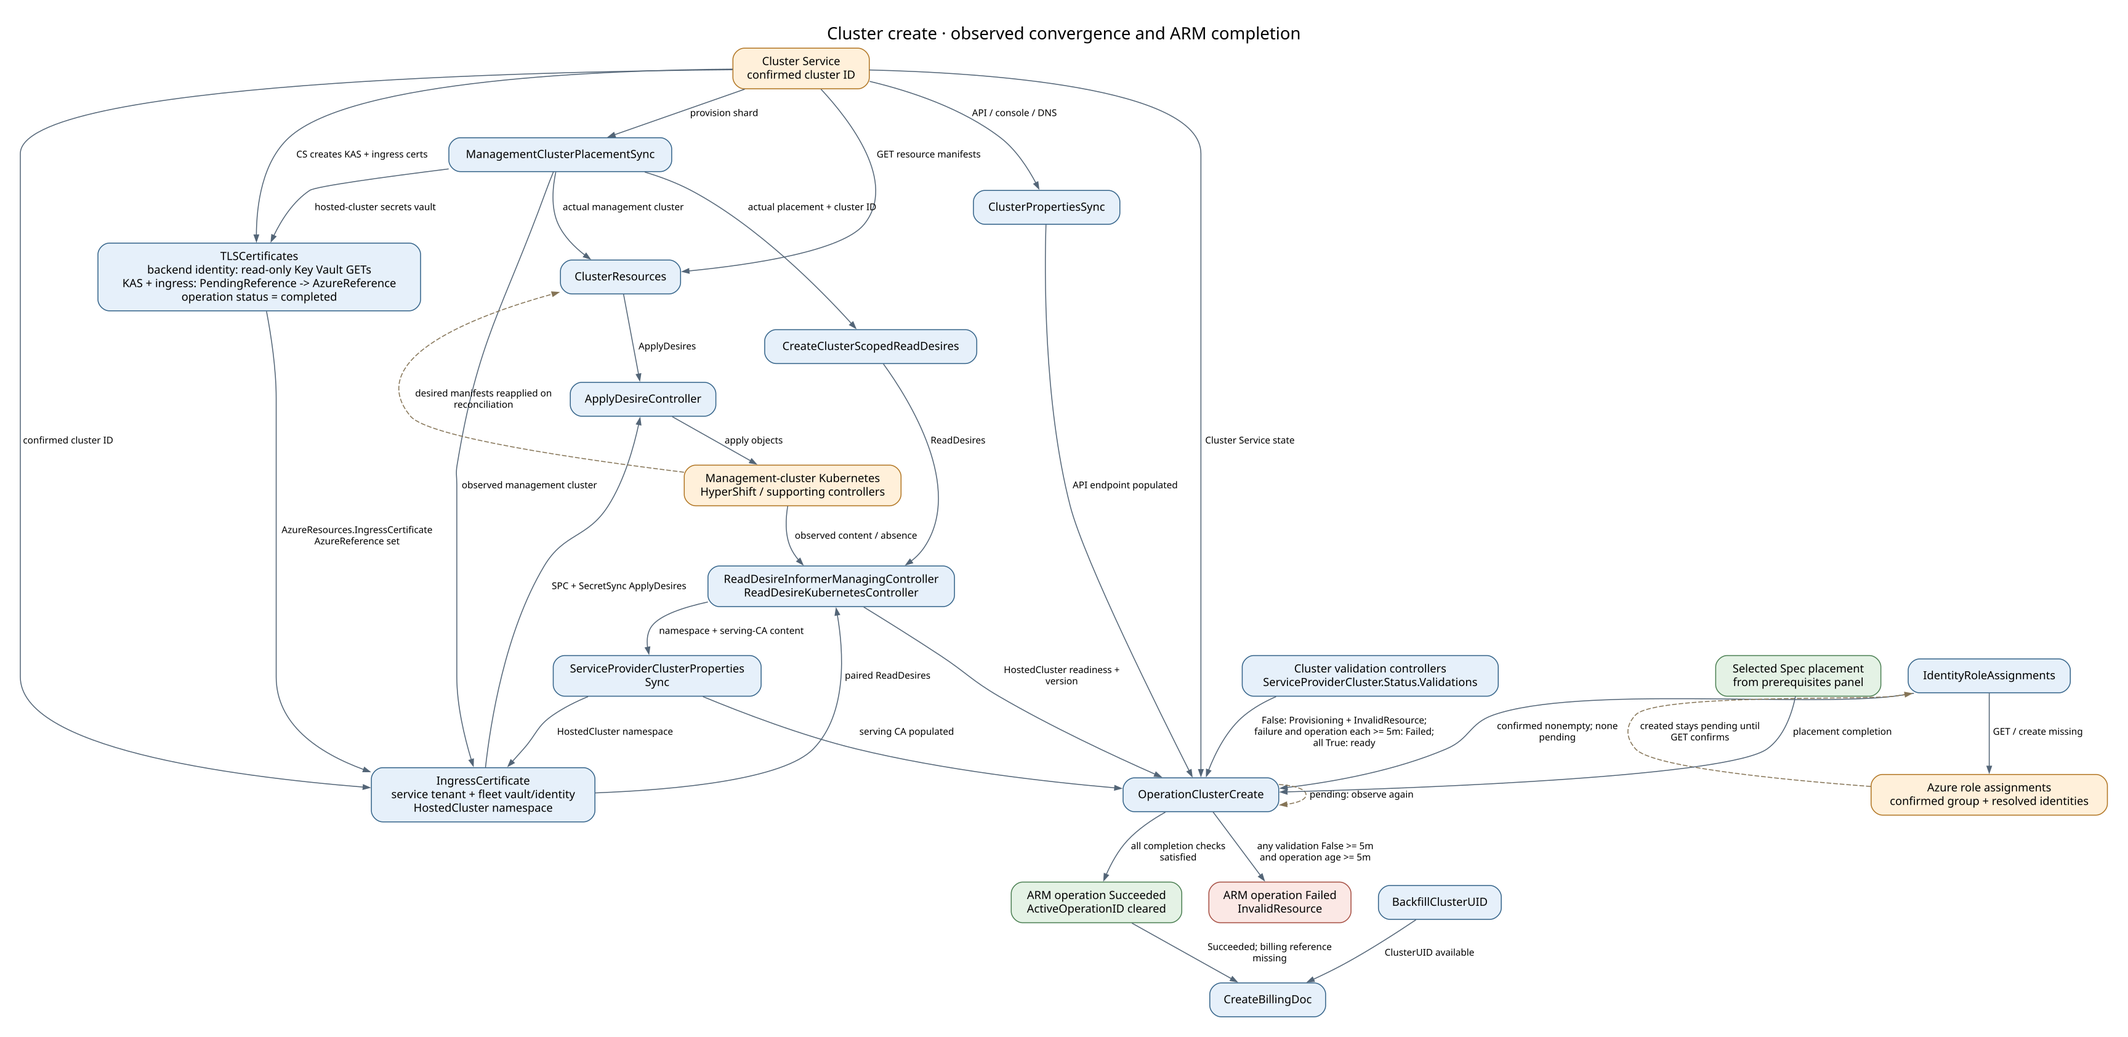
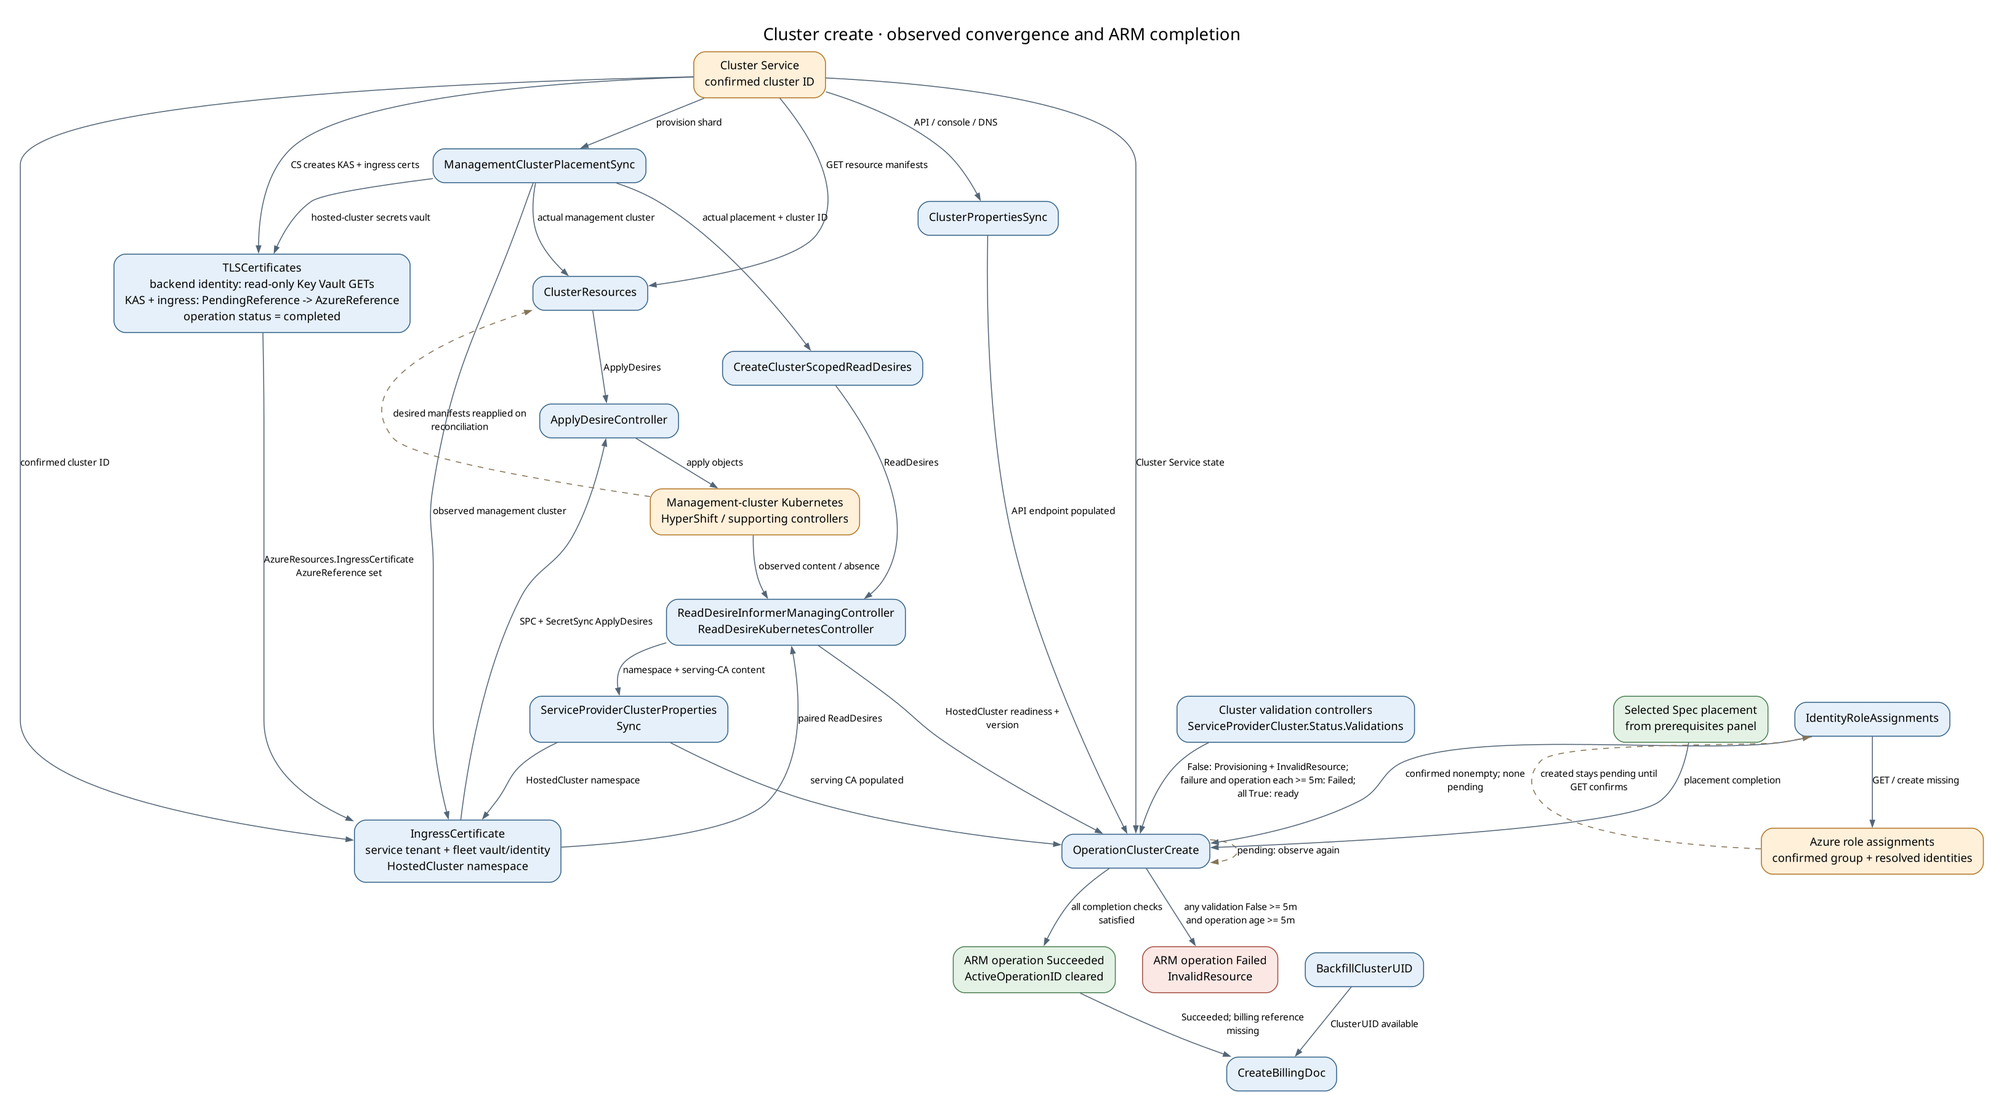
fix(backend): address ingress certificate review feedback
Rename the Kubernetes resource delivery package to k8sresources. Make pending and observed TLS certificate references optional pointers, update consumers and tests, and regenerate deepcopy code and module metadata.

Regenerate the cluster convergence and deletion PNGs with native Graphviz. Retain the shared 30-second observation context: Azure Retry.TryTimeout is per HTTP attempt, not a deadline spanning both certificate reads.

diff --git a/backend/pkg/controllers/cluster/registration.go b/backend/pkg/controllers/cluster/registration.go
@@ -31,12 +31,12 @@ import (
 	clusterdeletion "github.com/Azure/ARO-HCP/backend/pkg/controllers/cluster/deletion"
 	"github.com/Azure/ARO-HCP/backend/pkg/controllers/cluster/denyassignments"
 	clusteridentity "github.com/Azure/ARO-HCP/backend/pkg/controllers/cluster/identity"
+	clusterk8sresources "github.com/Azure/ARO-HCP/backend/pkg/controllers/cluster/k8sresources"
 	"github.com/Azure/ARO-HCP/backend/pkg/controllers/cluster/legacycredentialrequest"
 	clusteroperations "github.com/Azure/ARO-HCP/backend/pkg/controllers/cluster/operations"
 	clusterplacement "github.com/Azure/ARO-HCP/backend/pkg/controllers/cluster/placement"
 	clusterproperties "github.com/Azure/ARO-HCP/backend/pkg/controllers/cluster/properties"
 	clusterreaddesires "github.com/Azure/ARO-HCP/backend/pkg/controllers/cluster/readdesires"
-	clusterresources "github.com/Azure/ARO-HCP/backend/pkg/controllers/cluster/resources"
 	clusterroleassignments "github.com/Azure/ARO-HCP/backend/pkg/controllers/cluster/roleassignments"
 	clusterstatus "github.com/Azure/ARO-HCP/backend/pkg/controllers/cluster/status"
 	clusterupdate "github.com/Azure/ARO-HCP/backend/pkg/controllers/cluster/update"
@@ -965,7 +965,7 @@ func instantiateTLSCertificatesController(controllerContext controllerconfig.Con
 
 func instantiateIngressCertificateController(controllerContext controllerconfig.ControllerContext) (controllerconfig.Runnable, error) {
 	_, managementClusterLister := controllerContext.FleetInformers.ManagementClusters()
-	return clusterresources.NewIngressCertificateController(
+	return clusterk8sresources.NewIngressCertificateController(
 		controllerContext.ResourcesDBClient,
 		controllerContext.KubeApplierDBClients,
 		controllerContext.BackendInformers,
@@ -1238,7 +1238,7 @@ func Register(registry map[string]controllerconfig.ControllerRegistration) {
 	registry[strings.ToLower(clusterplacement.PlacementControllerName)] = registerPlacementController()
 	registry[strings.ToLower(clusterplacement.PendingCleanupControllerName)] = registerPendingCleanupController()
 	registry[strings.ToLower(clusterbackups.BackupScheduleControllerName)] = registerBackupScheduleController()
-	registry[strings.ToLower(clusterresources.IngressCertificateControllerName)] = registerIngressCertificateController()
+	registry[strings.ToLower(clusterk8sresources.IngressCertificateControllerName)] = registerIngressCertificateController()
 	registry[strings.ToLower(clusterazureresources.TLSCertificatesControllerName)] = registerTLSCertificatesController()
 	registry[strings.ToLower(clusteridentity.FetchMSIIdentitiesInfoControllerName)] = registerFetchMSIIdentitiesInfoController()
 	registry[strings.ToLower(clusteridentity.FetchDataPlaneOperatorsManagedIdentitiesInfoControllerName)] = registerFetchDataPlaneOperatorsManagedIdentitiesInfoController()

diff --git a/backend/pkg/controllers/cluster/azureresources/tls_certificates_controller.go b/backend/pkg/controllers/cluster/azureresources/tls_certificates_controller.go
@@ -109,7 +109,7 @@ func (syncer *tlsCertificatesSyncer) NeedsWork(cluster *coreapi.Cluster, service
 		return serviceProviderCluster.Status.AzureResources.KubeAPIServerCertificate != nil || serviceProviderCluster.Status.AzureResources.IngressCertificate != nil
 	}
 	return cluster.ServiceProviderProperties.ClusterServiceID != nil &&
-		(serviceProviderCluster.Status.AzureResources.KubeAPIServerCertificate == nil || serviceProviderCluster.Status.AzureResources.KubeAPIServerCertificate.AzureReference == (coreapi.AzureTLSCertificateReference{}) || serviceProviderCluster.Status.AzureResources.IngressCertificate == nil || serviceProviderCluster.Status.AzureResources.IngressCertificate.AzureReference == (coreapi.AzureTLSCertificateReference{}))
+		(serviceProviderCluster.Status.AzureResources.KubeAPIServerCertificate == nil || serviceProviderCluster.Status.AzureResources.KubeAPIServerCertificate.AzureReference == nil || serviceProviderCluster.Status.AzureResources.IngressCertificate == nil || serviceProviderCluster.Status.AzureResources.IngressCertificate.AzureReference == nil)
 }
 
 func (syncer *tlsCertificatesSyncer) SyncOnce(ctx context.Context, key controllerutils.HCPClusterKey) error {
@@ -172,8 +172,8 @@ func (syncer *tlsCertificatesSyncer) SyncOnce(ctx context.Context, key controlle
 		{"ingress-tls-cert-" + clusterServiceID, replacement.Status.AzureResources.IngressCertificate},
 	}
 	for _, certificate := range certificates {
-		if certificate.state.AzureReference == (coreapi.AzureTLSCertificateReference{}) {
-			certificate.state.PendingReference = coreapi.AzureTLSCertificateReference{KeyVaultURL: vaultURL, CertificateName: certificate.name}
+		if certificate.state.AzureReference == nil {
+			certificate.state.PendingReference = &coreapi.AzureTLSCertificateReference{KeyVaultURL: vaultURL, CertificateName: certificate.name}
 		}
 	}
 	if controllerutil.NeedsUpdate(existing, replacement) {
@@ -181,7 +181,7 @@ func (syncer *tlsCertificatesSyncer) SyncOnce(ctx context.Context, key controlle
 	}
 	var observationErrors []error
 	for _, certificate := range certificates {
-		if certificate.state.AzureReference != (coreapi.AzureTLSCertificateReference{}) {
+		if certificate.state.AzureReference != nil {
 			continue
 		}
 		reference := certificate.state.PendingReference
@@ -192,7 +192,7 @@ func (syncer *tlsCertificatesSyncer) SyncOnce(ctx context.Context, key controlle
 		}
 		if ready {
 			certificate.state.AzureReference = reference
-			certificate.state.PendingReference = coreapi.AzureTLSCertificateReference{}
+			certificate.state.PendingReference = nil
 		}
 	}
 	return errors.Join(append(observationErrors, syncer.persist(ctx, key, existing, replacement))...)

diff --git a/backend/pkg/controllers/cluster/operations/operation_cluster_create_test.go b/backend/pkg/controllers/cluster/operations/operation_cluster_create_test.go
@@ -1202,13 +1202,13 @@ func TestDetermineOperationState(t *testing.T) {
 				} {
 					reference := certificate.AzureReference
 					certificate.PendingReference = reference
-					certificate.AzureReference = coreapi.AzureTLSCertificateReference{}
+					certificate.AzureReference = nil
 					waiting, waitErr := controller.determineOperationState(ctx, operation, clusterArg)
 					require.NoError(t, waitErr)
 					assert.Equal(t, coreapi.ProvisioningStateProvisioning, waiting.ProvisioningState)
 					assert.Contains(t, waiting.Message, "TLS certificates not yet confirmed")
 					certificate.AzureReference = reference
-					certificate.PendingReference = coreapi.AzureTLSCertificateReference{}
+					certificate.PendingReference = nil
 				}
 			}
 
@@ -1292,7 +1292,7 @@ func TestServingCABundleOperationStatus(t *testing.T) {
 }
 
 func confirmedTLSCertificate(name string) *coreapi.TLSCertificate {
-	return &coreapi.TLSCertificate{AzureReference: coreapi.AzureTLSCertificateReference{
+	return &coreapi.TLSCertificate{AzureReference: &coreapi.AzureTLSCertificateReference{
 		KeyVaultURL:     metadataapi.Must(url.Parse("https://certificates.vault.azure.net/")),
 		CertificateName: name,
 	}}
@@ -1318,9 +1318,9 @@ func TestTLSCertificatesOperationStatus(test *testing.T) {
 		{name: "ingress pending", kas: confirmedTLSCertificate("kas"), ingress: pending},
 		{name: "KAS still pending", kas: confirmedAndPending, ingress: confirmedTLSCertificate("ingress")},
 		{name: "ingress still pending", kas: confirmedTLSCertificate("kas"), ingress: confirmedAndPending},
-		{name: "missing vault", kas: &coreapi.TLSCertificate{AzureReference: coreapi.AzureTLSCertificateReference{CertificateName: "kas"}}, ingress: confirmedTLSCertificate("ingress")},
+		{name: "missing vault", kas: &coreapi.TLSCertificate{AzureReference: &coreapi.AzureTLSCertificateReference{CertificateName: "kas"}}, ingress: confirmedTLSCertificate("ingress")},
 		{name: "missing certificate name", kas: confirmedTLSCertificate("kas"), ingress: confirmedTLSCertificate("")},
-		{name: "empty vault", kas: &coreapi.TLSCertificate{AzureReference: coreapi.AzureTLSCertificateReference{KeyVaultURL: &url.URL{}, CertificateName: "kas"}}, ingress: confirmedTLSCertificate("ingress")},
+		{name: "empty vault", kas: &coreapi.TLSCertificate{AzureReference: &coreapi.AzureTLSCertificateReference{KeyVaultURL: &url.URL{}, CertificateName: "kas"}}, ingress: confirmedTLSCertificate("ingress")},
 		{name: "both confirmed", kas: confirmedTLSCertificate("kas"), ingress: confirmedTLSCertificate("ingress"), succeeded: true},
 	}
 	for _, entry := range tests {

diff --git a/backend/pkg/controllers/cluster/k8sresources/ingress_certificate_controller_test.go b/backend/pkg/controllers/cluster/k8sresources/ingress_certificate_controller_test.go
@@ -12,7 +12,7 @@
 // See the License for the specific language governing permissions and
 // limitations under the License.
 
-package resources
+package k8sresources
 
 import (
 	"context"
@@ -48,8 +48,8 @@ type certificateFixture struct {
 	client            *kubeappliercosmosstoragetesting.MockKubeApplierDBClient
 }
 
-func ingressTestReference() coreapi.AzureTLSCertificateReference {
-	return coreapi.AzureTLSCertificateReference{KeyVaultURL: metadataapi.Must(url.Parse("https://cluster-secrets.vault.azure.net/")), CertificateName: "ingress-tls-cert-abc123"}
+func ingressTestReference() *coreapi.AzureTLSCertificateReference {
+	return &coreapi.AzureTLSCertificateReference{KeyVaultURL: metadataapi.Must(url.Parse("https://cluster-secrets.vault.azure.net/")), CertificateName: "ingress-tls-cert-abc123"}
 }
 
 func newCertificateFixture(test *testing.T) *certificateFixture {
@@ -285,14 +285,14 @@ func TestIngressCertificateNeedsWork(test *testing.T) {
 			fixture := newCertificateFixture(test)
 			fixture.serviceProvider.Status.HostedClusterNamespace = namespace
 			fixture.serviceProvider.Status.AzureResources.IngressCertificate = certificate
-			require.Equal(test, namespace != "" && certificate != nil && certificate.AzureReference != (coreapi.AzureTLSCertificateReference{}), fixture.syncer.NeedsWork(fixture.serviceProvider))
+			require.Equal(test, namespace != "" && certificate != nil && certificate.AzureReference != nil, fixture.syncer.NeedsWork(fixture.serviceProvider))
 		}
 	}
 }
 
 func TestIngressCertificateUsesObservedReference(test *testing.T) {
 	fixture := newCertificateFixture(test)
-	fixture.serviceProvider.Status.AzureResources.IngressCertificate.AzureReference = coreapi.AzureTLSCertificateReference{KeyVaultURL: metadataapi.Must(url.Parse("https://observed-vault.vault.azure.net/")), CertificateName: "observed-certificate"}
+	fixture.serviceProvider.Status.AzureResources.IngressCertificate.AzureReference = &coreapi.AzureTLSCertificateReference{KeyVaultURL: metadataapi.Must(url.Parse("https://observed-vault.vault.azure.net/")), CertificateName: "observed-certificate"}
 	require.NoError(test, fixture.syncer.SyncOnce(test.Context(), fixture.key))
 	for _, desire := range fixture.applies(test) {
 		require.Contains(test, string(desire.Spec.ServerSideApply.KubeContent.Raw), "observed-certificate")

diff --git a/internal/api/coreapi/types_runtime_test.go b/internal/api/coreapi/types_runtime_test.go
@@ -30,7 +30,7 @@ func TestTLSCertificateURLRoundTripAndDeepCopy(test *testing.T) {
 	vaultURL, err := url.Parse("https://certificates.vault.azure.net/")
 	require.NoError(test, err)
 	for _, confirmed := range []bool{false, true} {
-		reference := coreapi.AzureTLSCertificateReference{KeyVaultURL: vaultURL, CertificateName: "certificate"}
+		reference := &coreapi.AzureTLSCertificateReference{KeyVaultURL: vaultURL, CertificateName: "certificate"}
 		certificate := &coreapi.TLSCertificate{PendingReference: reference}
 		if confirmed {
 			certificate = &coreapi.TLSCertificate{AzureReference: reference}
@@ -47,15 +47,32 @@ func TestTLSCertificateURLRoundTripAndDeepCopy(test *testing.T) {
 		copied := original.DeepCopy()
 		require.Equal(test, original, copied)
 		for _, copiedCertificate := range []*coreapi.TLSCertificate{copied.Status.AzureResources.KubeAPIServerCertificate, copied.Status.AzureResources.IngressCertificate} {
-			copiedReference := &copiedCertificate.PendingReference
+			copiedReference := copiedCertificate.PendingReference
 			if confirmed {
-				copiedReference = &copiedCertificate.AzureReference
+				copiedReference = copiedCertificate.AzureReference
 			}
+			copiedReference.CertificateName = "changed"
 			copiedReference.KeyVaultURL.Host = "changed.vault.azure.net"
 		}
+		require.Equal(test, "certificate", reference.CertificateName)
 		require.Equal(test, "certificates.vault.azure.net", vaultURL.Host)
 	}
 	require.Equal(test, &coreapi.AzureTLSCertificateReference{}, (&coreapi.AzureTLSCertificateReference{}).DeepCopy())
+}
+
+func TestTLSCertificateUnsetReferences(test *testing.T) {
+	for _, input := range []string{"{}", `{"pendingReference":null,"azureReference":null}`} {
+		var certificate coreapi.TLSCertificate
+		require.NoError(test, json.Unmarshal([]byte(input), &certificate))
+		require.Nil(test, certificate.PendingReference)
+		require.Nil(test, certificate.AzureReference)
+		copied := certificate.DeepCopy()
+		require.Nil(test, copied.PendingReference)
+		require.Nil(test, copied.AzureReference)
+		serialized, err := json.Marshal(copied)
+		require.NoError(test, err)
+		require.JSONEq(test, "{}", string(serialized))
+	}
 }
 
 func TestDeepCopyCluster(t *testing.T) {

diff --git a/backend/pkg/controllers/cluster/deletion/cluster_tls_certificates_gate_test.go b/backend/pkg/controllers/cluster/deletion/cluster_tls_certificates_gate_test.go
@@ -36,7 +36,7 @@ import (
 )
 
 func TestTLSCertificateDeletionGates(test *testing.T) {
-	reference := coreapi.AzureTLSCertificateReference{KeyVaultURL: metadataapi.Must(url.Parse("https://vault.vault.azure.net/")), CertificateName: "certificate"}
+	reference := &coreapi.AzureTLSCertificateReference{KeyVaultURL: metadataapi.Must(url.Parse("https://vault.vault.azure.net/")), CertificateName: "certificate"}
 	for _, scenario := range []struct {
 		name         string
 		kas, ingress *coreapi.TLSCertificate
@@ -48,7 +48,7 @@ func TestTLSCertificateDeletionGates(test *testing.T) {
 		{name: "ingress pending", ingress: &coreapi.TLSCertificate{PendingReference: reference}},
 		{name: "ingress confirmed", ingress: &coreapi.TLSCertificate{AzureReference: reference}},
 		{name: "both", kas: &coreapi.TLSCertificate{PendingReference: reference}, ingress: &coreapi.TLSCertificate{AzureReference: reference}},
-		{name: "partial reference", kas: &coreapi.TLSCertificate{AzureReference: coreapi.AzureTLSCertificateReference{CertificateName: "certificate"}}},
+		{name: "partial reference", kas: &coreapi.TLSCertificate{AzureReference: &coreapi.AzureTLSCertificateReference{CertificateName: "certificate"}}},
 	} {
 		test.Run(scenario.name, func(test *testing.T) {
 			cluster := newTestClusterWithNewDeletionApproach(test, func(cluster *coreapi.Cluster) {

diff --git a/backend/pkg/controllers/cluster/k8sresources/ingress_certificate_controller.go b/backend/pkg/controllers/cluster/k8sresources/ingress_certificate_controller.go
@@ -12,7 +12,7 @@
 // See the License for the specific language governing permissions and
 // limitations under the License.
 
-package resources
+package k8sresources
 
 import (
 	"context"
@@ -148,7 +148,7 @@ func (syncer *ingressCertificateSyncer) SyncOnce(ctx context.Context, key contro
 }
 
 func (syncer *ingressCertificateSyncer) NeedsWork(serviceProviderCluster *coreapi.ServiceProviderCluster) bool {
-	return serviceProviderCluster.Status.AzureResources.IngressCertificate != nil && serviceProviderCluster.Status.AzureResources.IngressCertificate.AzureReference != (coreapi.AzureTLSCertificateReference{}) && serviceProviderCluster.Status.HostedClusterNamespace != ""
+	return serviceProviderCluster.Status.AzureResources.IngressCertificate != nil && serviceProviderCluster.Status.AzureResources.IngressCertificate.AzureReference != nil && serviceProviderCluster.Status.HostedClusterNamespace != ""
 }
 
 func (syncer *ingressCertificateSyncer) teardown(

diff --git a/backend/pkg/controllers/cluster/k8sresources/ingress_certificate_desires.go b/backend/pkg/controllers/cluster/k8sresources/ingress_certificate_desires.go
@@ -12,7 +12,7 @@
 // See the License for the specific language governing permissions and
 // limitations under the License.
 
-package resources
+package k8sresources
 
 import (
 	"encoding/json"
@@ -42,10 +42,13 @@ func buildIngressCertificateDesires(
 	key controllerutils.HCPClusterKey,
 	managementCluster *fleetapi.ManagementCluster,
 	namespace, clusterServiceID, serviceTenantID string,
-	certificate coreapi.AzureTLSCertificateReference,
+	certificate *coreapi.AzureTLSCertificateReference,
 ) ([]*kubeapplierapi.ApplyDesire, []*kubeapplierapi.ReadDesire, error) {
 	if serviceTenantID == "" {
 		return nil, nil, fmt.Errorf("service tenant ID is required for ingress certificates")
+	}
+	if certificate == nil {
+		return nil, nil, fmt.Errorf("observed ingress certificate is required")
 	}
 	vaultURL := certificate.KeyVaultURL
 	if vaultURL == nil || vaultURL.Scheme != "https" || vaultURL.Hostname() == "" {

diff --git a/backend/pkg/controllers/cluster/operations/operation_cluster_create.go b/backend/pkg/controllers/cluster/operations/operation_cluster_create.go
@@ -494,9 +494,9 @@ func (c *operationClusterCreate) tlsCertificatesOperationStatus(ctx context.Cont
 		serviceProviderCluster.Status.AzureResources.KubeAPIServerCertificate,
 		serviceProviderCluster.Status.AzureResources.IngressCertificate,
 	} {
-		if certificate == nil || certificate.AzureReference.KeyVaultURL == nil ||
+		if certificate == nil || certificate.AzureReference == nil || certificate.AzureReference.KeyVaultURL == nil ||
 			certificate.AzureReference.KeyVaultURL.Scheme != "https" || certificate.AzureReference.KeyVaultURL.Hostname() == "" ||
-			certificate.AzureReference.CertificateName == "" || certificate.PendingReference != (coreapi.AzureTLSCertificateReference{}) {
+			certificate.AzureReference.CertificateName == "" || certificate.PendingReference != nil {
 			return operationbase.NewOperationState(coreapi.ProvisioningStateProvisioning, "TLS certificates not yet confirmed"), nil
 		}
 	}

diff --git a/internal/api/coreapi/types_serviceprovider_cluster.go b/internal/api/coreapi/types_serviceprovider_cluster.go
@@ -528,10 +528,10 @@ type DenyAssignmentReference struct {
 type TLSCertificate struct {
 	// PendingReference identifies a certificate not yet confirmed to be provisioned in Azure.
 	// Written by: TLSCertificates
-	PendingReference AzureTLSCertificateReference `json:"pendingReference,omitempty"`
+	PendingReference *AzureTLSCertificateReference `json:"pendingReference,omitempty"`
 	// AzureReference identifies a certificate confirmed to be provisioned in Azure.
 	// Written by: TLSCertificates
-	AzureReference AzureTLSCertificateReference `json:"azureReference,omitempty"`
+	AzureReference *AzureTLSCertificateReference `json:"azureReference,omitempty"`
 }
 
 // AzureTLSCertificateReference identifies a single Azure Key Vault TLS certificate.

diff --git a/internal/api/coreapi/zz_generated.deepcopy.go b/internal/api/coreapi/zz_generated.deepcopy.go
@@ -3130,8 +3130,14 @@ func (in *SystemData) DeepCopy() *SystemData {
 // DeepCopyInto is an autogenerated deepcopy function, copying the receiver, writing into out. in must be non-nil.
 func (in *TLSCertificate) DeepCopyInto(out *TLSCertificate) {
 	*out = *in
-	in.PendingReference.DeepCopyInto(&out.PendingReference)
-	in.AzureReference.DeepCopyInto(&out.AzureReference)
+	if in.PendingReference != nil {
+		in, out := &in.PendingReference, &out.PendingReference
+		*out = (*in).DeepCopy()
+	}
+	if in.AzureReference != nil {
+		in, out := &in.AzureReference, &out.AzureReference
+		*out = (*in).DeepCopy()
+	}
 	return
 }
 

diff --git a/backend/pkg/controllers/cluster/azureresources/tls_certificates_controller_test.go b/backend/pkg/controllers/cluster/azureresources/tls_certificates_controller_test.go
@@ -41,7 +41,7 @@ import (
 )
 
 func expectedTLSCertificate(name string, confirmed bool) *coreapi.TLSCertificate {
-	reference := coreapi.AzureTLSCertificateReference{KeyVaultURL: metadataapi.Must(url.Parse("https://certificates.vault.azure.net/")), CertificateName: name}
+	reference := &coreapi.AzureTLSCertificateReference{KeyVaultURL: metadataapi.Must(url.Parse("https://certificates.vault.azure.net/")), CertificateName: name}
 	if confirmed {
 		return &coreapi.TLSCertificate{AzureReference: reference}
 	}
